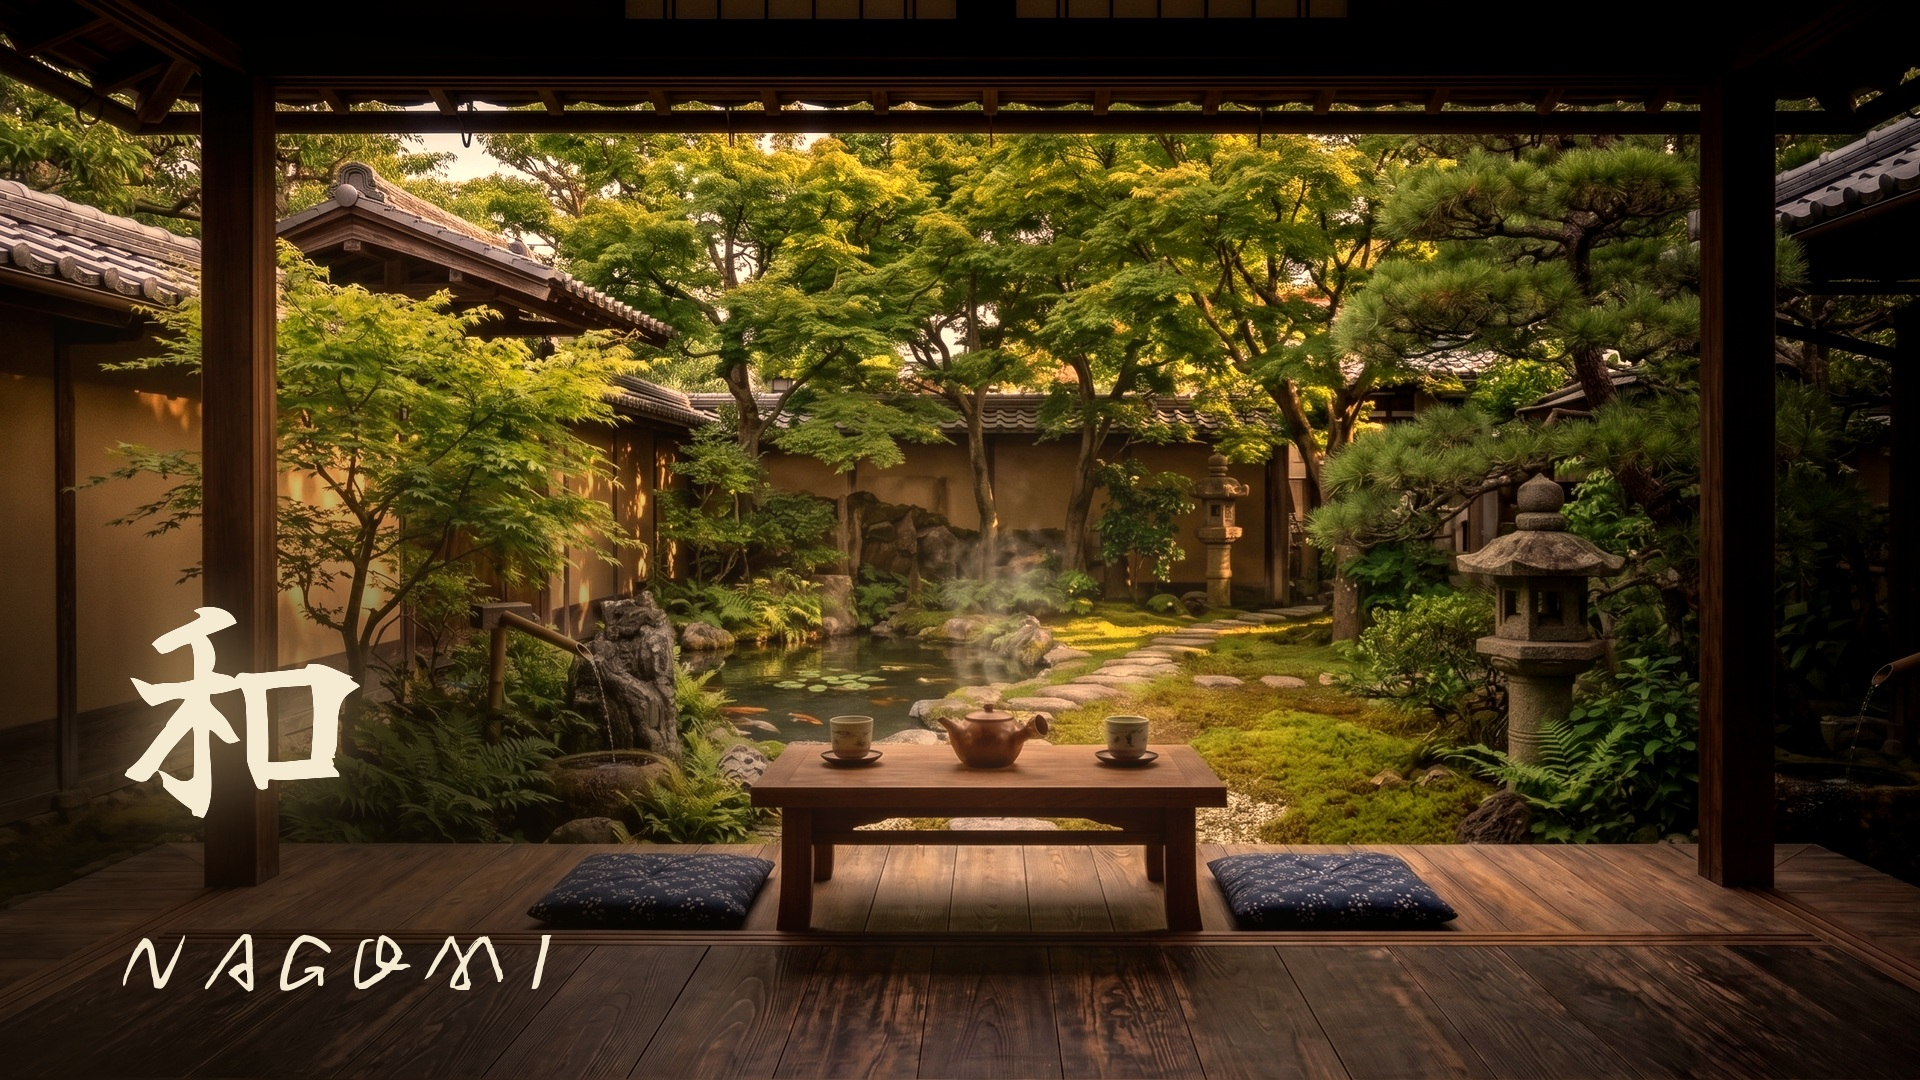
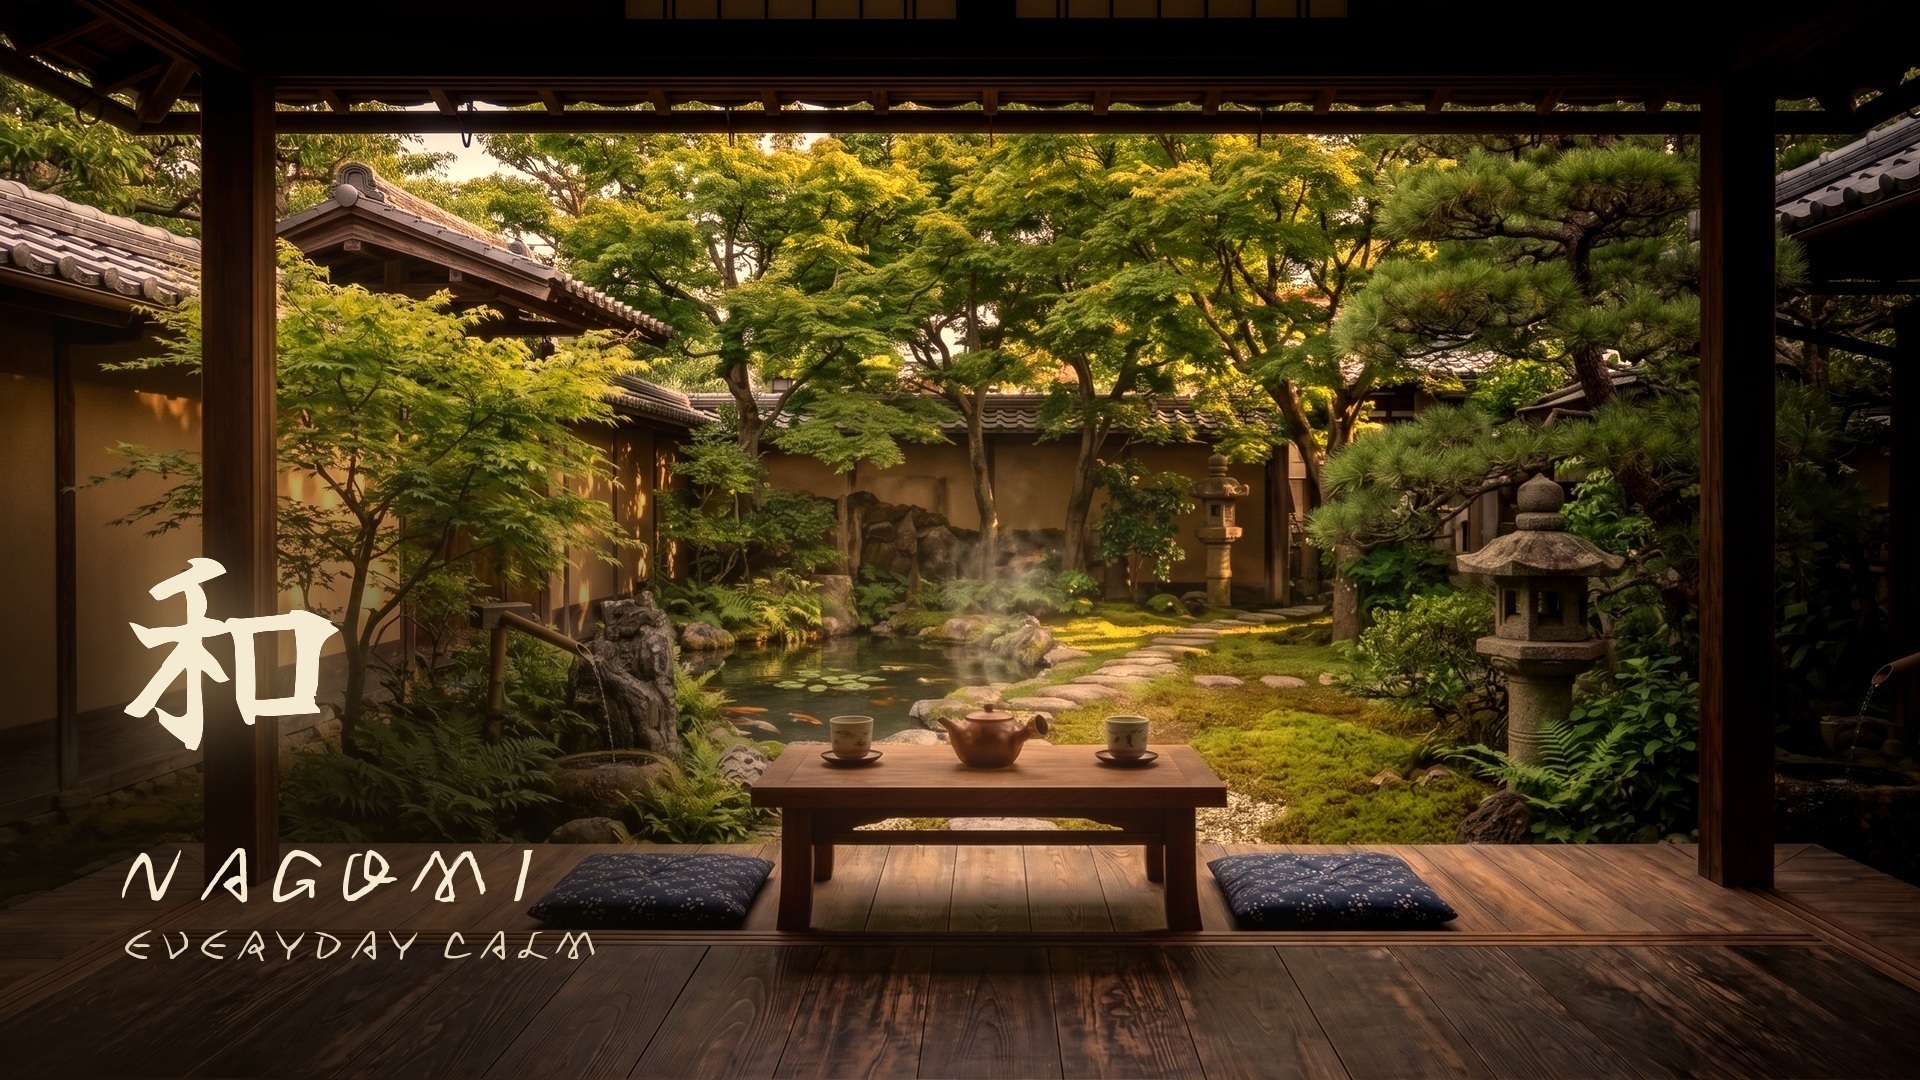
NAGOMI: lock thumbnail V3 (adds the EVERYDAY CALM promise line)

Changed region(s): [[0.0625, 0.5194, 0.1875, 0.7639], [0.0625, 0.7944, 0.3125, 0.9167]]

diff --git a/stillwave/assets/nagomi-compose-thumb.py b/stillwave/assets/nagomi-compose-thumb.py
@@ -1,11 +1,14 @@
 #!/usr/bin/env python3
 """NAGOMI thumbnail — 和 + NAGOMI over the engawa tea-for-two hero (1920x1080).
 
-Locked layout = V2: a stacked lockup on the shadowed veranda boards, LEFT side.
+Locked layout = V3: a stacked lockup on the shadowed veranda boards, LEFT side —
+和 + NAGOMI + the promise line EVERYDAY CALM.
 The frame is symmetric, so the only calm zone is the lower band; the scrim reaches
 up into the ferns so the kanji can stay large enough to read at feed size.
 Grade pulls the daylight green towards honey gold — warmth is half of what NAGOMI means.
-V1 (horizontal) and V3 (+ EVERYDAY CALM) are kept below as alternates.
+NAGOMI is an unfamiliar word and promises nothing on its own, so the third line does the
+selling — a deliberate departure from the clean kanji+romaji Kanji-Concept canon.
+V1 (horizontal) and V2 (no third line) are kept in this script as A/B alternates.
 """
 from PIL import Image, ImageDraw, ImageFont, ImageFilter, ImageEnhance
 import numpy as np
@@ -100,7 +103,7 @@ im = base()
 scrim(im, (-260, 560, 700, 1110), alpha=178, blur=125)
 kanji(im, "和", 258, 112, 606)
 spaced(im, "NAGOMI", 80, 118, 896)
-im.convert("RGB").save("/home/user/dan-documents/stillwave/assets/nagomi-2h-thumb.jpg", quality=94)  # LOCKED
+im.convert("RGB").save(f"{SP}/nagomi2-thumb-v2.jpg", quality=94)
 
 # ── V3 — V2 + третья строка-обещание ────────────────────────────────────────
 im = base()
@@ -108,6 +111,6 @@ scrim(im, (-260, 520, 720, 1110), alpha=180, blur=125)
 kanji(im, "和", 236, 112, 556)
 spaced(im, "NAGOMI", 76, 118, 812)
 spaced(im, "EVERYDAY CALM", 40, 122, 912, fill=SUB, ls=6)
-im.convert("RGB").save(f"{SP}/nagomi2-thumb-v3.jpg", quality=94)
+im.convert("RGB").save("/home/user/dan-documents/stillwave/assets/nagomi-2h-thumb.jpg", quality=94)  # LOCKED
 
 print("saved v1 v2 v3")

diff --git a/stillwave/scripts/nagomi-2h.md b/stillwave/scripts/nagomi-2h.md
@@ -418,8 +418,9 @@ stillwave, japanese zen music, meditation music, zen music, relaxing music, calm
 ## §10 — Thumbnail
 
 - **LOCKED (2026-07-28):** фон — hero v2 `assets/nagomi-2h-source.jpg` (энгава, столик на двоих, внутренний сад). **和** крупно + **NAGOMI** под ним, кремовым кистевым (Yuji Boku), **слева на затенённых досках**. Кадр симметричный, поэтому единственная спокойная зона — нижняя полоса; скрим заходит вверх в папоротники, чтобы иероглиф остался крупным. Грейдинг тянет дневную зелень к медовому — тепло это половина смысла 和. Виньетка + мягкое свечение на пар и на подсвеченную стену. Нижний правый под лого свободен.
-- Сборка: `assets/nagomi-compose-thumb.py` → `assets/nagomi-2h-thumb.jpg` (1920×1080). В том же скрипте лежат альтернативы: **V1** — горизонтальная связка на нижних досках, **V3** — V2 + третья строка `EVERYDAY CALM` (кандидат на A/B, если CTR через 48 ч будет ниже 3%: NAGOMI — незнакомое слово и само по себе ничего не обещает).
-- Проверено: глифы `y 607–990`, `x 123–550` — внутри кадра с запасом, край ничего не режет.
+- **Третья строка `EVERYDAY CALM` включена в финал.** NAGOMI — незнакомое слово, само по себе оно ничего не обещает: KINTSUGI объяснял себя картинкой (золото на сколах), а красивый сад не сообщает зрителю, что ему предлагают. Подпись даёт обещание за полсекунды. Осознанный отход от чистого канона Kanji-Concept (кандзи + ромадзи).
+- Сборка: `assets/nagomi-compose-thumb.py` → `assets/nagomi-2h-thumb.jpg` (1920×1080). В том же скрипте — альтернативы под A/B: **V1** (горизонтальная связка на нижних досках) и **V2** (без третьей строки).
+- Проверено: глифы `y 558–960`, `x 122–593` — внутри кадра с запасом, край ничего не режет.
 - **🇺🇦** Обложка: тёплая чайная комната, 和 верх-лево + NAGOMI низ-лево кистевой каллиграфией, углы затемнить.
 
 ---
